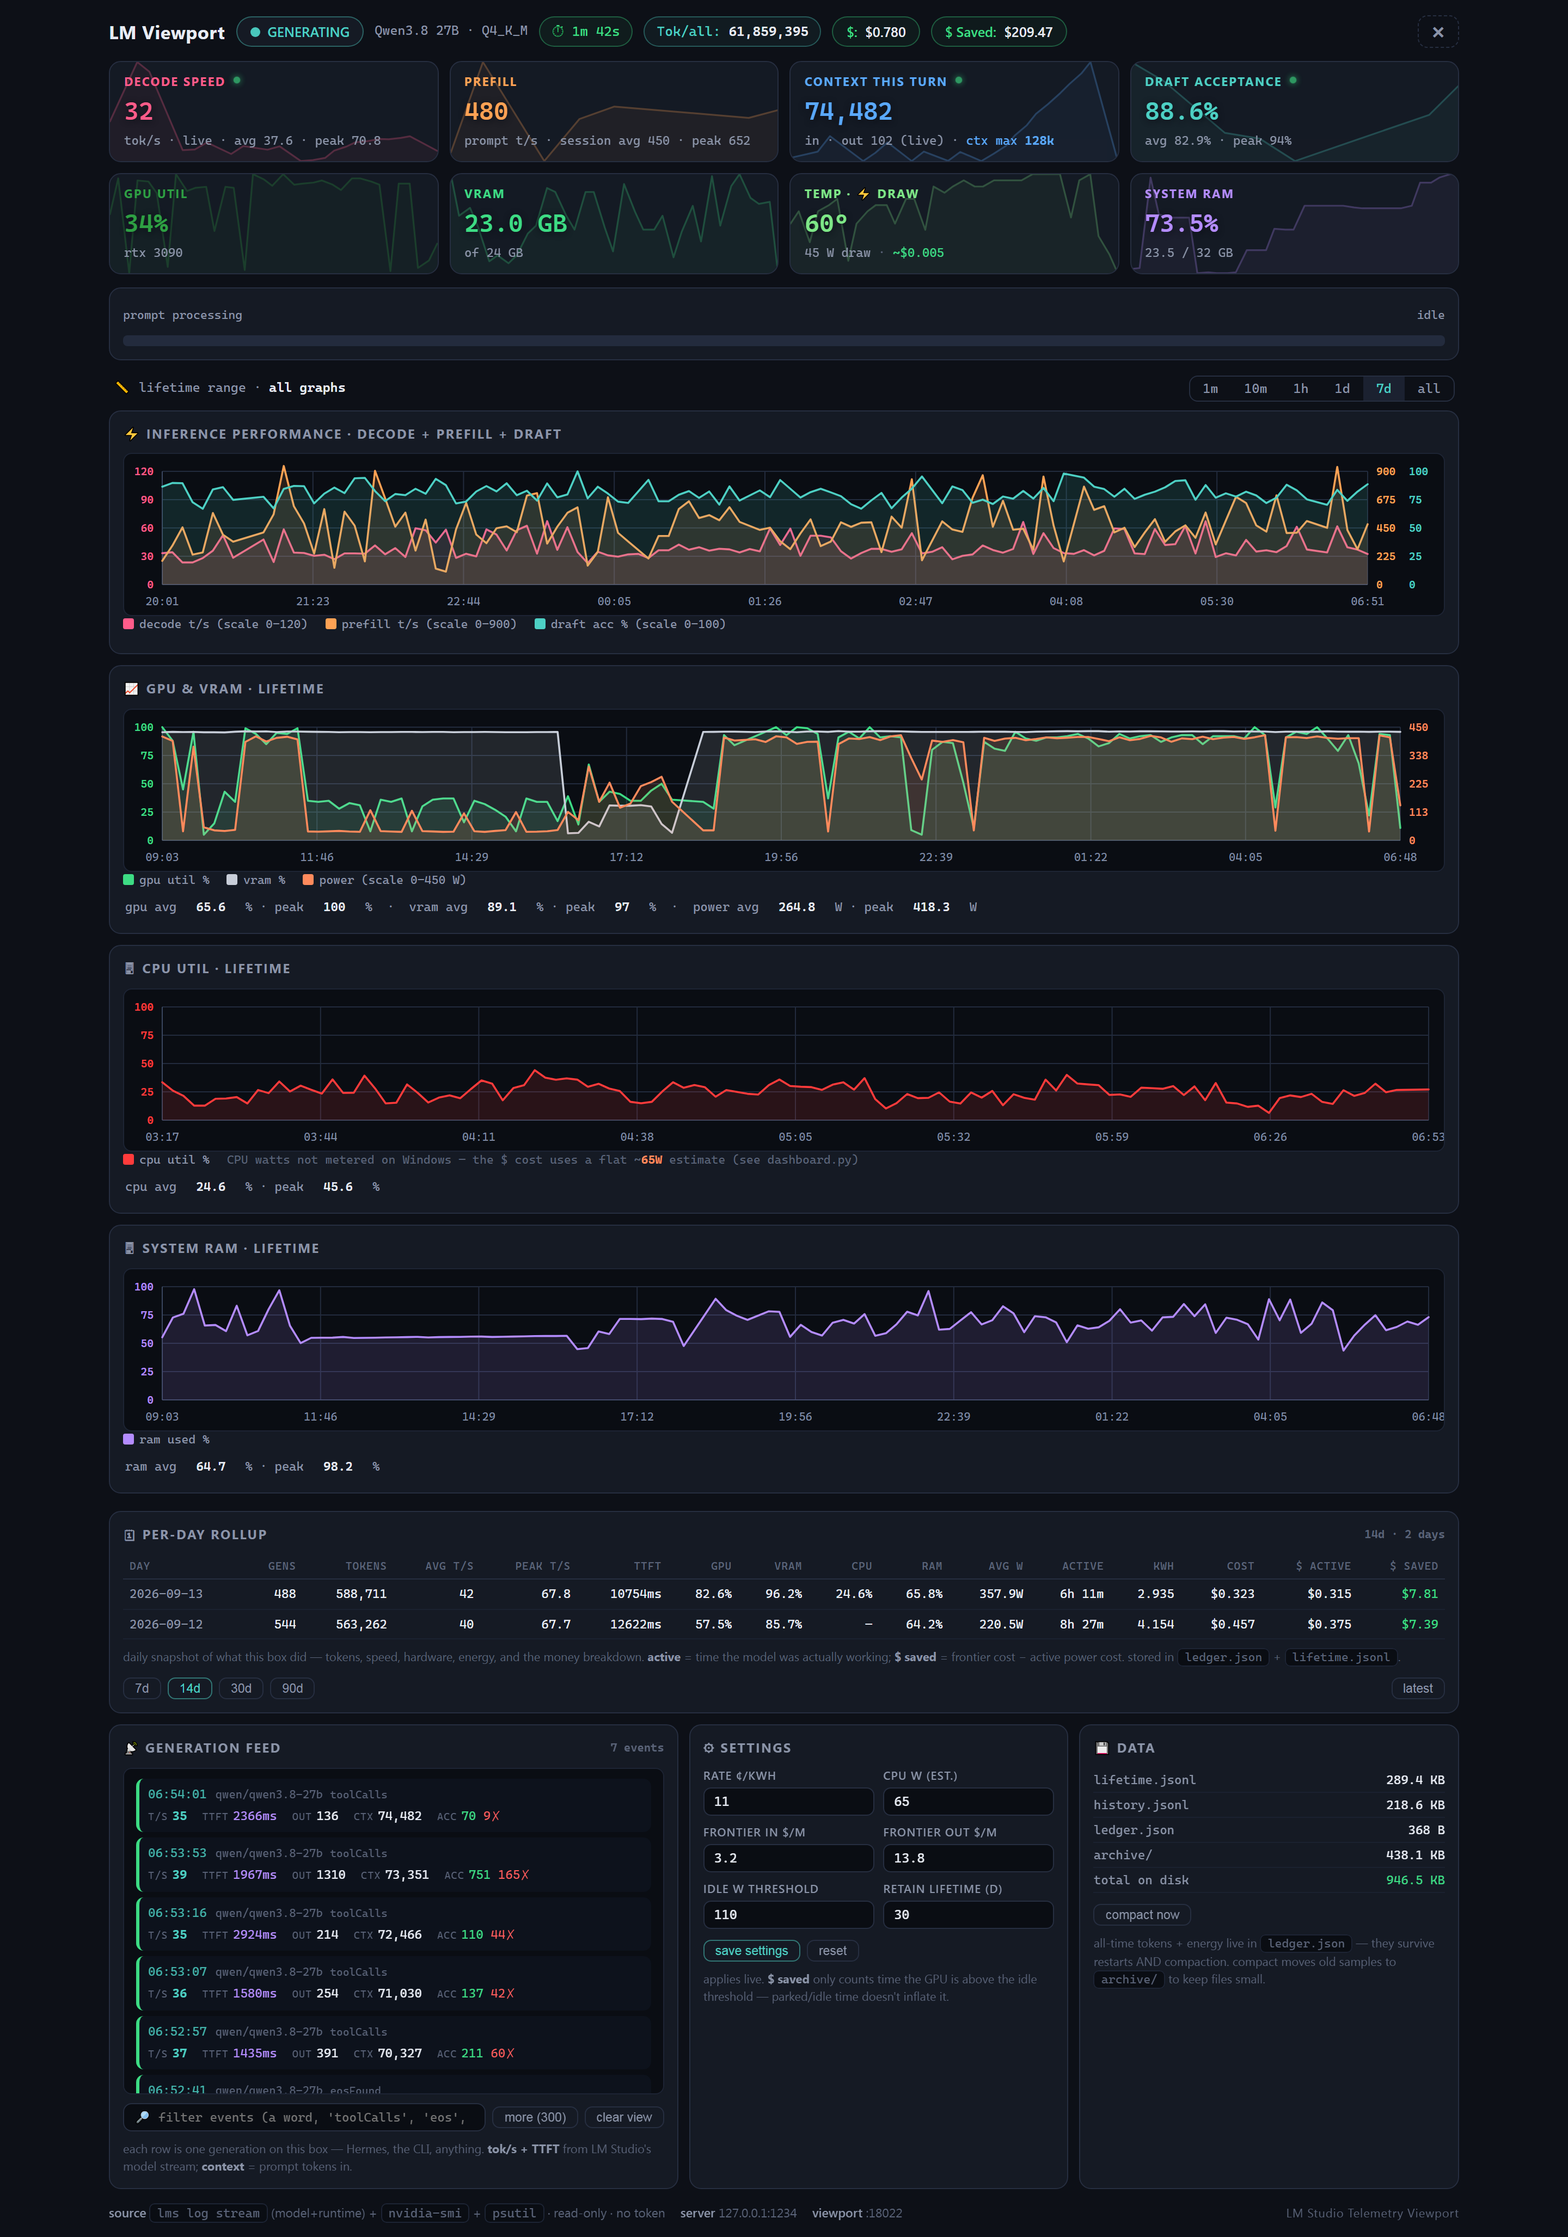
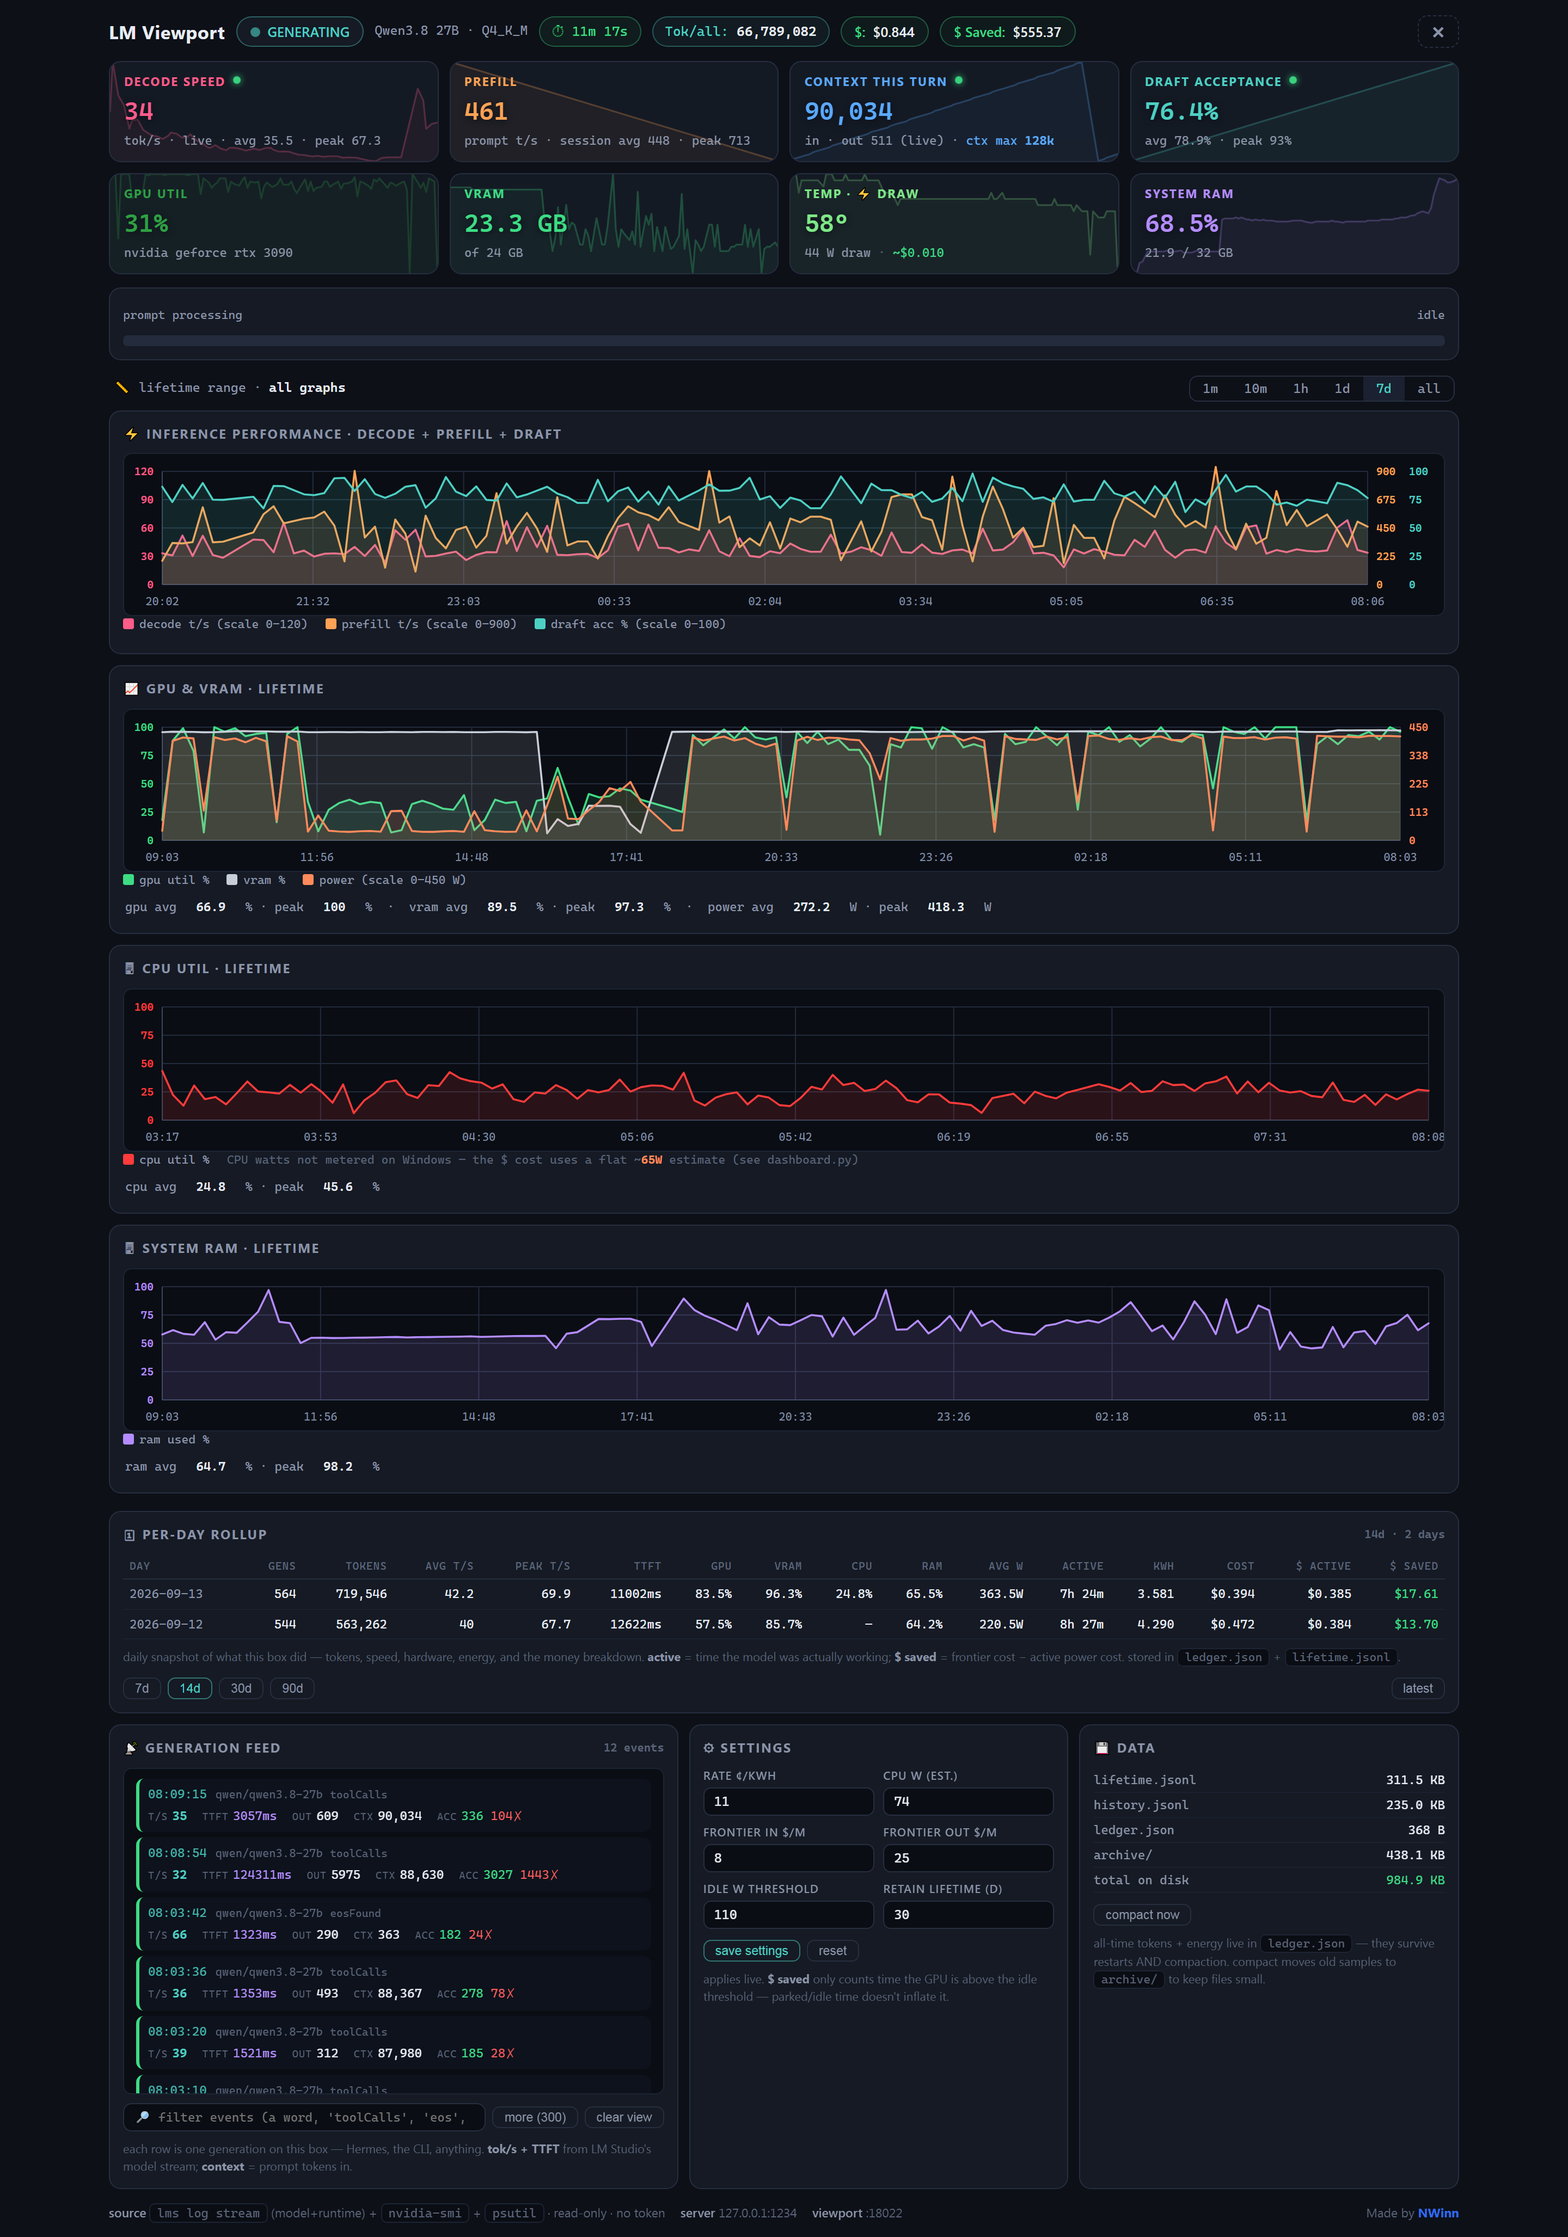
v1.1.0 — auto-detect GPU name, national-avg rate default, restore attribution
- GPU util tile now shows the auto-detected card name (nvidia-smi),
  not a hardcoded 'rtx 3090'. Anyone's GPU shows its own name.
- Electricity rate default -> US national residential average (18.34c,
  EIA Sep 2026) in code + settings.example + frontend defaults.
  (Your settings.json still overrides with your real rate.)
- Restored the 'Made by NWinn' footer attribution (github.com/NWinnVR).
- README: GPU auto-detect note, national-avg default note, and a
  Credits section (LM Studio, Grafana conventions, EIA, NWinn).
- Re-shot all docs/ screenshots to reflect the above.

diff --git a/index.html b/index.html
@@ -133,6 +133,9 @@
   .foot{margin-top:14px;font-size:11.5px;color:var(--dim);display:flex;gap:14px;flex-wrap:wrap}
   .foot b{color:var(--muted);font-weight:600}
   .foot .tag{color:var(--mut);font-size:11px;letter-spacing:.04em}
+  .foot .made{margin-left:auto;font-size:11.5px;color:var(--mut)}
+  .foot a.nwinn{color:#2f6bff;font-weight:700;text-decoration:none}
+  .foot a.nwinn:hover{color:#4d86ff;text-decoration:underline}
 
   /* ── lifetime charts (self-contained SVG, Grafana-style) ── */
   .lifegraph{width:100%;height:150px;position:relative;background:#0a0d13;border:1px solid #1d2434;border-radius:8px;overflow:hidden}
@@ -180,7 +183,7 @@
       <div class="v" style="color:#ff5c8a" id="tps">—</div>
       <div class="s" id="tps-sub">tok/s · live</div>
     </div>
-    <div class="tile" data-metric="prefill" data-color="#ffa254" title="prefill speed — how fast the model reads the prompt in (tokens/sec). Your 3090 runs this around 800–900 t/s. Higher = faster first token (TTFT).">
+    <div class="tile" data-metric="prefill" data-color="#ffa254" title="prefill speed — how fast the model reads the prompt in (tokens/sec). Depends entirely on your own GPU. Higher = faster first token (TTFT).">
       <div class="spark"></div>
       <div class="k" style="color:#ffa254">prefill</div>
       <div class="v" style="color:#ffa254" id="prefill">—</div>
@@ -198,11 +201,11 @@
       <div class="v" style="color:#4dd0c4" id="acc">—</div>
       <div class="s" id="acc-sub">accepted / rejected</div>
     </div>
-    <div class="tile" data-metric="gpu_util" data-color="#2ea043" title="GPU utilisation — % of the RTX 3090's compute in use, sampled every few seconds.">
+    <div class="tile" data-metric="gpu_util" data-color="#2ea043" title="GPU utilisation — % of your GPU's compute in use, sampled every few seconds. The card name is auto-detected.">
       <div class="spark"></div>
       <div class="k" style="color:#2ea043">gpu util</div>
       <div class="v" style="color:#2ea043" id="gutil">—</div>
-      <div class="s" id="gutil-sub">rtx 3090</div>
+      <div class="s" id="gutil-sub">gpu</div>
     </div>
     <div class="tile" data-metric="vram_pct" data-color="#3ddc84" data-fixed="0,100" title="VRAM used by the model (GB). Sparkline is pinned to the full 0–100% scale so you can see headroom at a glance.">
       <div class="spark"></div>
@@ -227,7 +230,7 @@
   <!-- ── progress strip ── -->
   <div class="card" style="margin-bottom:12px">
     <div class="barnote">
-      <span id="proglabel" title="progress = tokens generated ÷ (prompt + output) for the current request — live from LM Studio's runtime stream. 'prefill' is the prompt-read speed (your ~800–900 t/s).">prompt processing</span>
+      <span id="proglabel" title="progress = tokens generated ÷ (prompt + output) for the current request — live from LM Studio's runtime stream. 'prefill' is the prompt-read speed.">prompt processing</span>
       <span id="progval">idle</span>
     </div>
     <div class="bar big" title="How far along the current request is. Fills left→right as the model reads the prompt and generates. Resets each request."><i id="progbar" style="width:0%;background:var(--cyan)"></i></div>
@@ -325,7 +328,7 @@
       </div>
       <div class="ctl" style="margin-top:10px">
         <button class="mini on" id="btnSaveSettings">save settings</button>
-        <button class="mini" id="btnResetSettings" title="revert to the built-in defaults (11¢/65W/3.2/13.8/110W/30d)">reset</button>
+        <button class="mini" id="btnResetSettings" title="revert to the built-in defaults (US avg 18.34¢/65W/3.2/13.8/110W/30d)">reset</button>
       </div>
       <div class="hnote">applies live. <b>$ saved</b> only counts time the GPU is above the idle threshold — parked/idle time doesn't inflate it.</div>
     </div>
@@ -348,7 +351,7 @@
     <span><b>source</b> <span class="key">lms log stream</span> (model+runtime) + <span class="key">nvidia-smi</span> + <span class="key">psutil</span> · read-only · no token</span>
     <span><b>server</b> <span id="footserver">127.0.0.1:1234</span></span>
     <span><b>viewport</b> :18022</span>
-    <span style="margin-left:auto" class="tag">LM Studio Telemetry Viewport</span>
+    <span class="made">Made by <a class="nwinn" href="https://github.com/NWinnVR" target="_blank" rel="noopener">NWinn</a></span>
   </div>
 </div>
 
@@ -463,9 +466,10 @@ async function tick(){
   const g=st.gpu;
   if(g){
     set("gutil",g.util_pct+"%");
+    set("gutil-sub", g.name ? g.name.toLowerCase() : "gpu");
     set("vram",(g.vram_used_mb/1024).toFixed(1)+" GB"); set("vram-sub","of "+(g.vram_total_mb/1024).toFixed(0)+" GB");
     set("temp",g.temp_c+"°"); set("temp-sub",g.power_w.toFixed(0)+" W draw");
-  } else { set("gutil","—"); set("vram","—"); set("vram-sub","nvidia-smi n/a"); set("temp","—"); set("temp-sub",""); }
+  } else { set("gutil","—"); set("gutil-sub","gpu"); set("vram","—"); set("vram-sub","nvidia-smi n/a"); set("temp","—"); set("temp-sub",""); }
   const r=st.ram;
   if(r){ set("ram",r.pct+"%"); set("ram-sub",(r.used_mb/1024).toFixed(1)+" / "+(r.total_mb/1024).toFixed(0)+" GB"); }
   else { set("ram","—"); set("ram-sub","psutil n/a"); }
@@ -816,7 +820,7 @@ async function hist(){
 $("btnHistToday").onclick=()=>{ histDays=1; hist(); toast("showing today","ok"); };
 
 /* ───────────────────────── settings panel ───────────────────────── */
-const SG_DEFAULTS={ cost_per_kwh:0.11, cpu_w:65, frontier_in:3.2, frontier_out:13.8, idle_power_w:110, lifetime_days:30 };
+const SG_DEFAULTS={ cost_per_kwh:0.1834, cpu_w:65, frontier_in:3.2, frontier_out:13.8, idle_power_w:110, lifetime_days:30 };
 let sgLoaded=false;
 async function loadSettings(){
   let s;
@@ -831,7 +835,7 @@ async function loadSettings(){
 }
 $("btnSaveSettings").onclick=async()=>{
   const payload={
-    cost_per_kwh:+$("sg_cost").value/100||0.11,
+    cost_per_kwh:+$("sg_cost").value/100||0.1834,
     cpu_w:+$("sg_cpuw").value||65,
     frontier_in:+$("sg_fin").value||3.2,
     frontier_out:+$("sg_fout").value||13.8,
@@ -845,8 +849,8 @@ $("btnSaveSettings").onclick=async()=>{
   }catch(e){ toast("save failed: "+e.message,"err"); }
 };
 $("btnResetSettings").onclick=()=>{
-  if(!confirm("Reset all settings to defaults?\n  rate 11¢/kWh · cpu 65W · frontier $3.2/$13.8 · idle 110W · retain 30d")) return;
-  $("sg_cost").value=11; $("sg_cpuw").value=65; $("sg_fin").value=3.2; $("sg_fout").value=13.8; $("sg_idle").value=110; $("sg_days").value=30;
+  if(!confirm("Reset all settings to defaults?\n  rate 18.34¢/kWh (US avg) · cpu 65W · frontier $3.2/$13.8 · idle 110W · retain 30d")) return;
+  $("sg_cost").value=18.34; $("sg_cpuw").value=65; $("sg_fin").value=3.2; $("sg_fout").value=13.8; $("sg_idle").value=110; $("sg_days").value=30;
   $("btnSaveSettings").click();
 };
 
@@ -884,7 +888,7 @@ async function tickTotals(){
   // all-time electricity cost pill
   if(t.all_cost!=null){
     set("allcostv", money(t.all_cost));
-    $("allcost").title="all-time electricity cost at "+((t.rate||0.11)*100).toFixed(2)+"¢/kWh · "+(t.all_kwh!=null?t.all_kwh.toFixed(2):"—")+" kWh · GPU draw (measured) + ~"+(t.cpu_w!=null?Math.round(t.cpu_w):65)+"W CPU estimate · active "+(t.active_hours!=null?t.active_hours.toFixed(1):"—")+"h of "+(t.total_hours!=null?t.total_hours.toFixed(1):"—")+"h uptime";
+    $("allcost").title="all-time electricity cost at "+((t.rate||0.1834)*100).toFixed(2)+"¢/kWh · "+(t.all_kwh!=null?t.all_kwh.toFixed(2):"—")+" kWh · GPU draw (measured) + ~"+(t.cpu_w!=null?Math.round(t.cpu_w):65)+"W CPU estimate · active "+(t.active_hours!=null?t.active_hours.toFixed(1):"—")+"h of "+(t.total_hours!=null?t.total_hours.toFixed(1):"—")+"h uptime";
   }
   // $ saved pill (frontier API cost for the same tokens − local electricity)
   if(t.saved!=null){

diff --git a/dashboard.py b/dashboard.py
@@ -56,7 +56,7 @@ PORT = int(os.environ.get("VIEWPORT_PORT", "18022"))
 # Single source of truth for the release version (semver). Bump here; it is
 # surfaced via /api/status and in the README. Policy: minor bump for fixes/adds,
 # major only on explicit intent.
-VERSION = "1.0.0"
+VERSION = "1.1.0"
 HERE = os.path.dirname(os.path.abspath(__file__))
 HISTORY = os.path.join(HERE, "history.jsonl")
 LIFETIME = os.path.join(HERE, "lifetime.jsonl")
@@ -71,7 +71,7 @@ PROCESS_START = time.time()
 #
 # These are LIVE-TWEAKABLE: they persist to settings.json and are editable from
 # the dashboard's settings panel. `CFG` is the single source of truth at runtime.
-COST_PER_KWH   = 0.11    # $/kWh (11¢)
+COST_PER_KWH   = 0.1834  # $/kWh — US national residential average (EIA, Sep 2026). Set yours in the settings panel.
 CPU_W_ESTIMATE = 65.0    # W — flat CPU+platform estimate (not meterable on Windows)
 FRONTIER_IN    = 3.2     # $/M input tokens (avg frontier workhorse)
 FRONTIER_OUT   = 13.8    # $/M output tokens
@@ -202,11 +202,21 @@ def gpu_stats():
         parts = [x.strip() for x in (p.stdout or b"").decode().strip().split(",")]
         if len(parts) < 5:
             return None
-        return {"util_pct": int(parts[0]), "vram_used_mb": int(parts[1]),
-                "vram_total_mb": int(parts[2]), "temp_c": int(parts[3]),
-                "power_w": float(parts[4])}
+        out = {"util_pct": int(parts[0]), "vram_used_mb": int(parts[1]),
+               "vram_total_mb": int(parts[2]), "temp_c": int(parts[3]),
+               "power_w": float(parts[4])}
     except Exception:
         return None
+    # Auto-detect the GPU's NAME (portable — never assume a specific card).
+    try:
+        np = subprocess.run([exe, "--query-gpu=name", "--format=csv,noheader"],
+                           capture_output=True, timeout=10, creationflags=NO_WINDOW)
+        nm = (np.stdout or b"").decode().strip().splitlines()
+        if nm and nm[0].strip():
+            out["name"] = nm[0].strip()
+    except Exception:
+        pass
+    return out
 
 
 def ram_stats():

diff --git a/README.md b/README.md
@@ -6,7 +6,7 @@
 
 `Python` · `no API token` · `no second model` · `local-only` · `MIT`
 
-[![version](https://img.shields.io/badge/version-1.0.0-22d3ee)]()
+[![version](https://img.shields.io/badge/version-1.1.0-22d3ee)]()
 [![python](https://img.shields.io/badge/python-3.8+-3776ab)]()
 [![license](https://img.shields.io/badge/license-MIT-2dd484)]()
 
@@ -94,7 +94,7 @@ the number:
 | **Prefill** | how fast the prompt is read in (tokens/sec) |
 | **Context this turn** | tokens in this generation + your max context window |
 | **Draft acceptance** | spec-decoding: % of draft tokens the big model accepted |
-| **GPU util** | nvidia-smi utilization % |
+| **GPU util** | nvidia-smi utilization % — the **card name is auto-detected** (your GPU, not a hardcoded one) |
 | **VRAM** | memory in use / total |
 | **Temp · ⚡ Draw** | GPU temperature + live power draw (the only tile with the bolt) |
 | **System RAM** | via `psutil` (optional) |
@@ -110,7 +110,7 @@ It reads `idle` between prompts and fills while a long prompt is being read in.
 ### Lifetime charts · the long view
 ![lifetime](docs/lifetime.png)
 
-Four Grafana-style line charts over any range (**1m / 10m / 1h / 1d / 7d / all**),
+Four line charts over any range (**1m / 10m / 1h / 1d / 7d / all**),
 each with avg + peak in the legend:
 
 - **Inference performance** — decode + prefill + draft acceptance
@@ -181,7 +181,7 @@ It binds to **127.0.0.1 only** — nothing is exposed to your network.
 
 | Knob | Default | Meaning |
 |---|---|---|
-| `cost_per_kwh` | `0.11` | your electricity rate, $/kWh |
+| `cost_per_kwh` | `0.1834` | your electricity rate, $/kWh — **defaults to the US national residential average** (EIA, ~18.34¢ as of mid-2026); set it to your real rate in the Settings panel |
 | `cpu_w` | `65.0` | flat CPU+platform wattage estimate (not meterable on Windows) |
 | `frontier_in` | `3.2` | avg frontier API input price, $/M tokens (for `$ saved`) |
 | `frontier_out` | `13.8` | avg frontier API output price, $/M tokens |
@@ -234,6 +234,19 @@ docs/                   README screenshots
 
 Ideas, PRs, and issues are welcome. Bump the version in `dashboard.py`
 (`VERSION`) for any change — minor for fixes/adds, major only on explicit intent.
+
+## Credits
+
+- **LM Studio** — the local inference server whose logs this reads (made by
+  [LM Studio](https://lmstudio.ai)).
+- **Grafana** — the multi-axis, color-coded time-series *layout* here follows
+  [Grafana](https://grafana.com)'s dashboard conventions. **No Grafana code is
+  included or linked**; this is a self-contained re-implementation of that
+  look. (Grafana is distributed under **AGPL-3.0**, which only applies if you
+  incorporate its code — we don't, so it carries no obligations here.)
+- **EIA** — US electricity-rate average used as the default `cost_per_kwh`
+  ([Energy Information Administration](https://www.eia.gov/electricity/data/browser/)).
+- **NWinn** — author (VR: nwinn). Attribution link is in the dashboard footer.
 
 ## License
 
